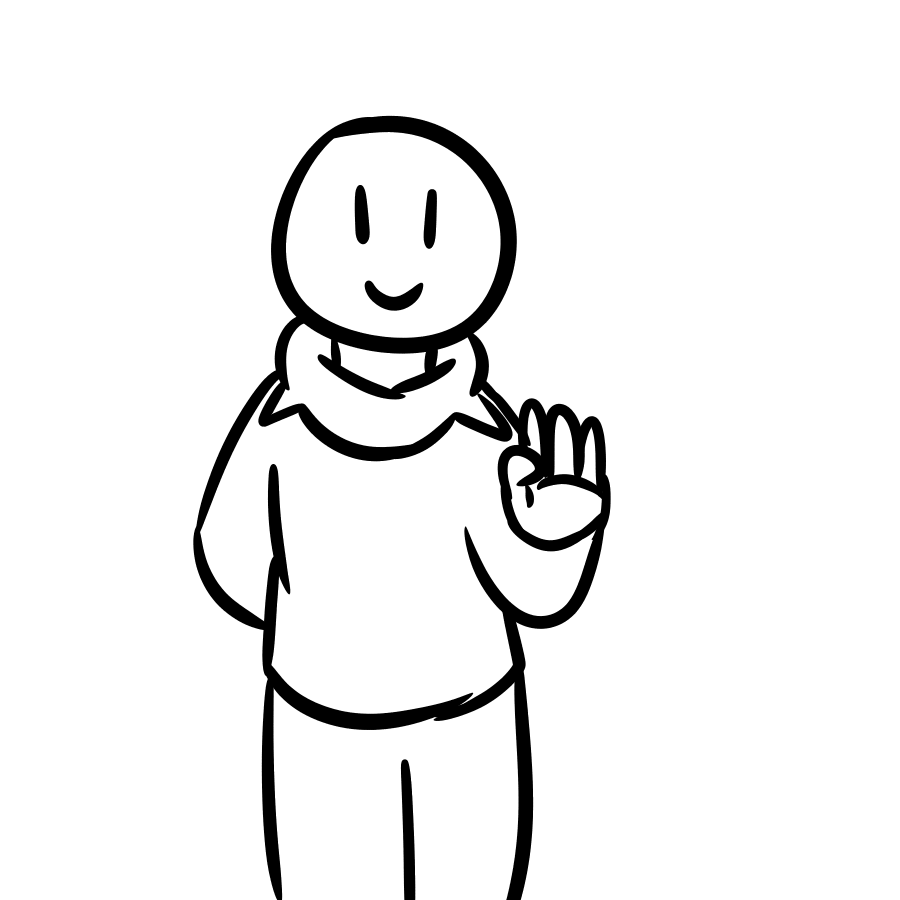
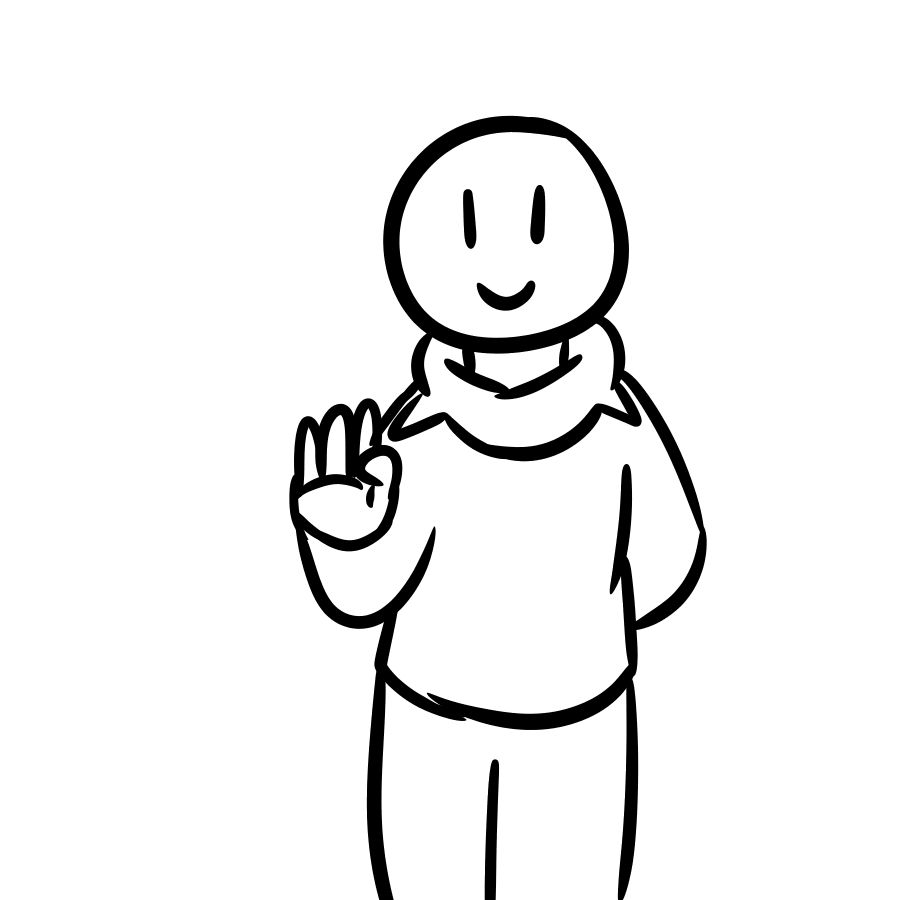
.

Changed region(s): [[0.2178, 0.1244, 0.8089, 1.0]]

diff --git a/barcodes-images/index.html b/barcodes-images/index.html
@@ -18,7 +18,7 @@
 
     <a-assets>
       <img id="cat" src="assets/greeter.png">
-      <img id="plur" src="assets/sand.jpg">
+      <img id="plur" src="assets/howareyou.png">
     </a-assets>
 
 
